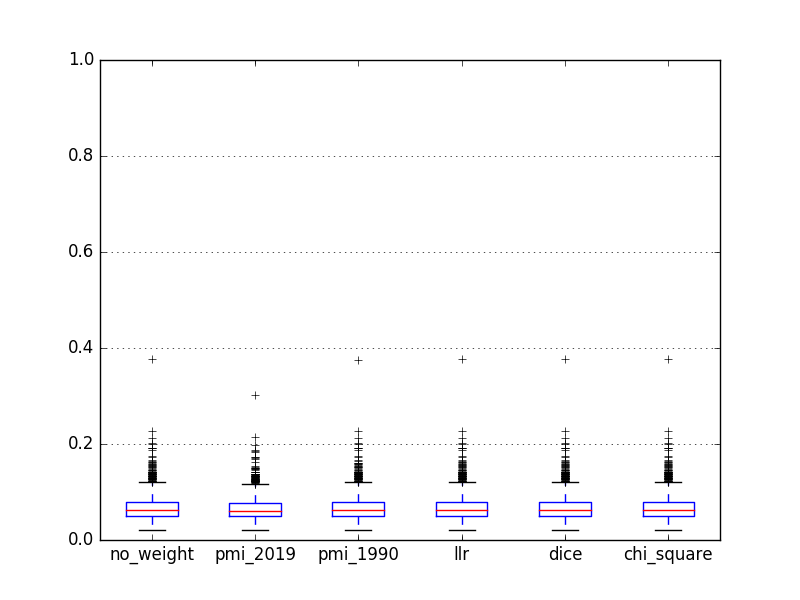
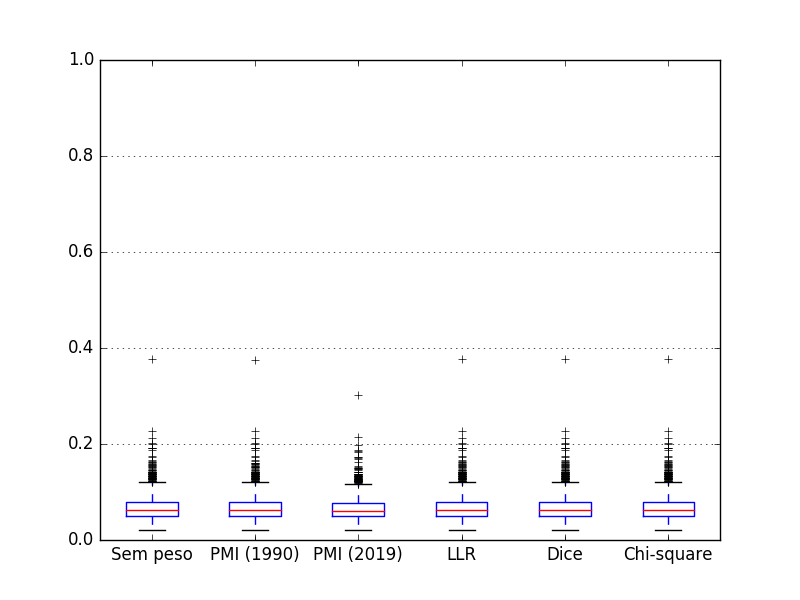
resultados

diff --git a/compare_measures.py b/compare_measures.py
@@ -100,7 +100,7 @@ def main():
     edges_llr = count_edges(llr_edges_train, llr_edges_test)
     edges_dice = count_edges(dice_edges_train, dice_edges_test)
     edges_chi_square = count_edges(chi_square_edges_train, chi_square_edges_test)
-    plot_boxplot([edges_all, edges_pmi_2019, edges_pmi_1990, edges_llr, edges_dice, edges_chi_square], ["no_weight", "pmi_2019", "pmi_1990", "llr", "dice", "chi_square"], "number_of_edges_"+str(args.window))
+    plot_boxplot([edges_all, edges_pmi_1990, edges_pmi_2019, edges_llr, edges_dice, edges_chi_square], ["Sem peso", "PMI (1990)", "PMI (2019)", "LLR", "Dice", "Chi-square"], "number_of_edges_"+str(args.window))
 
     #get number of edges that are small
     edges_sub(edges_all, edges_pmi_2019, "pmi_2019")
@@ -117,7 +117,7 @@ def main():
     density_llr = measure_density(llr_edges_train, llr_edges_test)
     density_dice = measure_density(dice_edges_train, dice_edges_test)
     density_chi_square = measure_density(chi_square_edges_train, chi_square_edges_test)
-    plot_boxplot([density_all, density_pmi_2019, density_pmi_1990, density_llr, density_dice, density_chi_square], ["no_weight", "pmi_2019", "pmi_1990", "llr", "dice", "chi_square"], "density_"+str(args.window))
+    plot_boxplot([density_all, density_pmi_1990, density_pmi_2019, density_llr, density_dice, density_chi_square], ["Sem peso", "PMI (1990)", "PMI (2019)", "LLR", "Dice", "Chi-square"], "density_"+str(args.window))
 
 if __name__ == "__main__":
     main()
